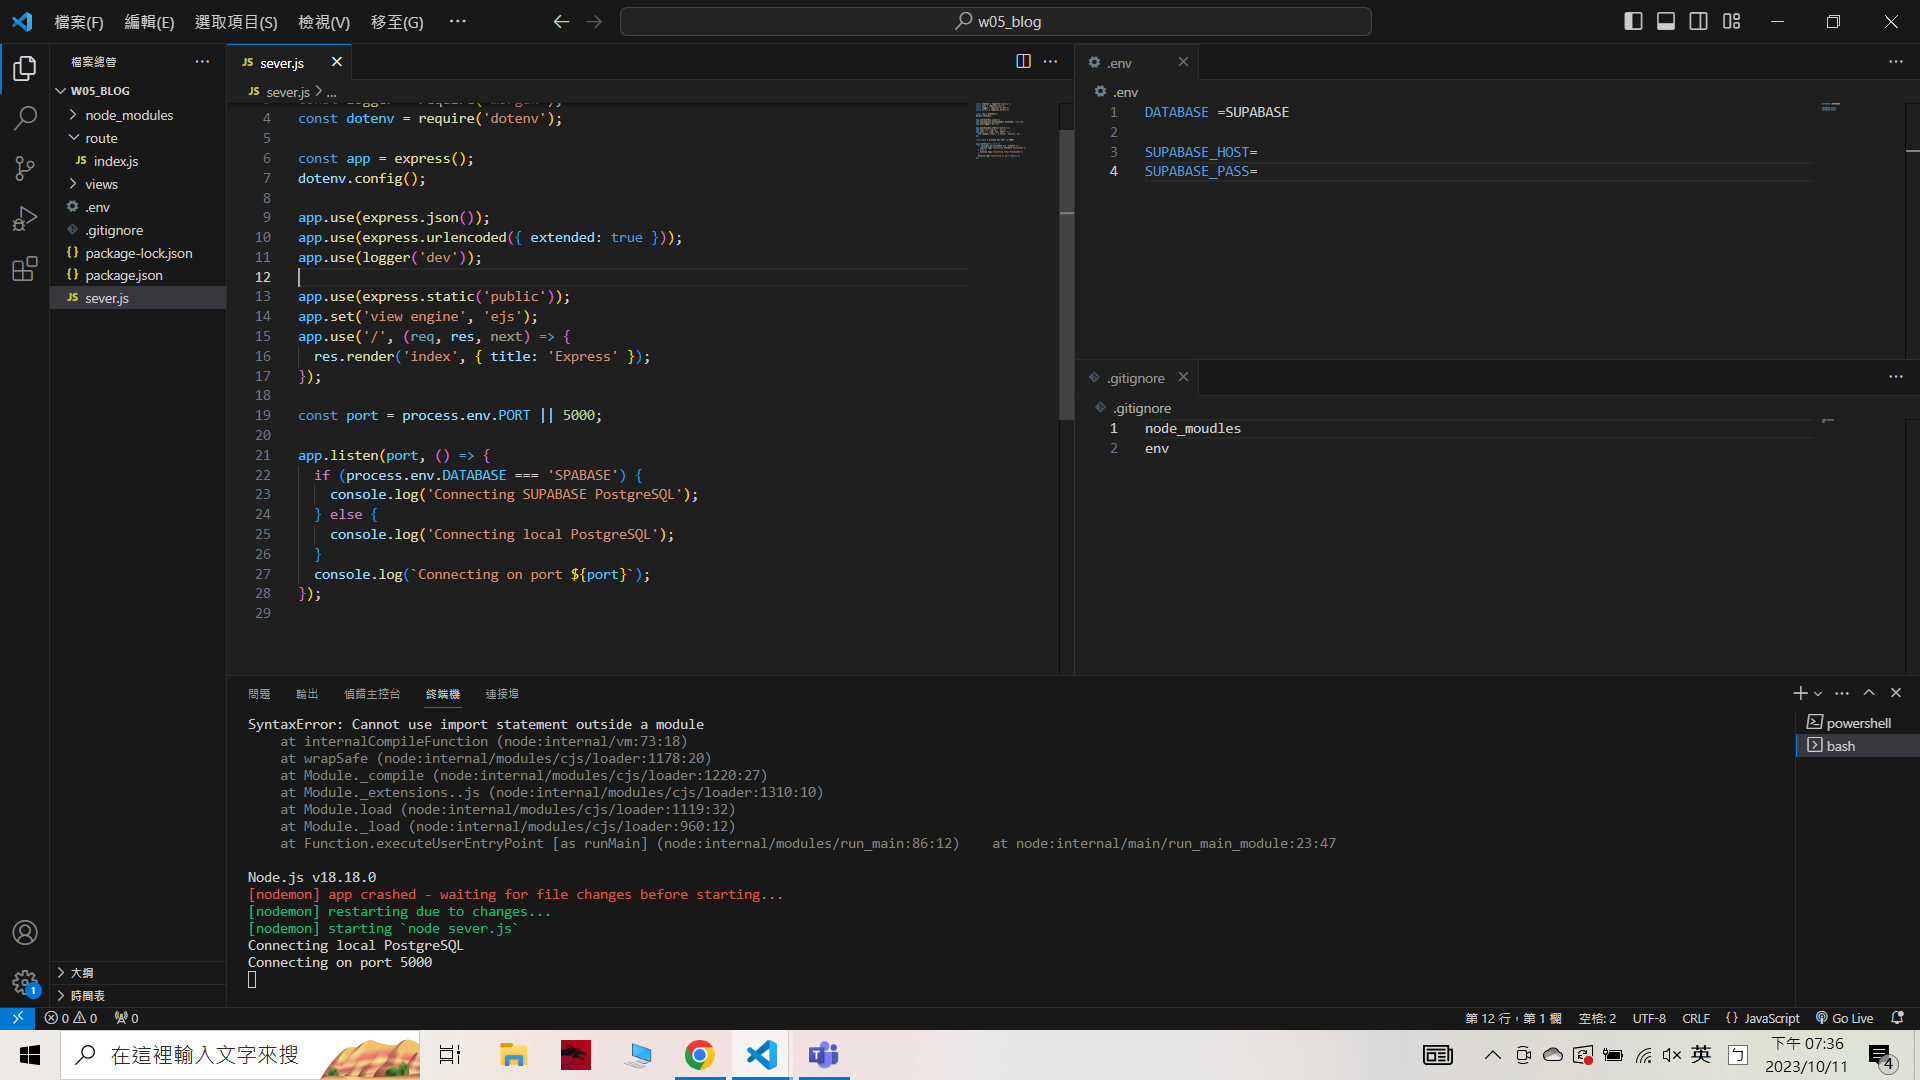
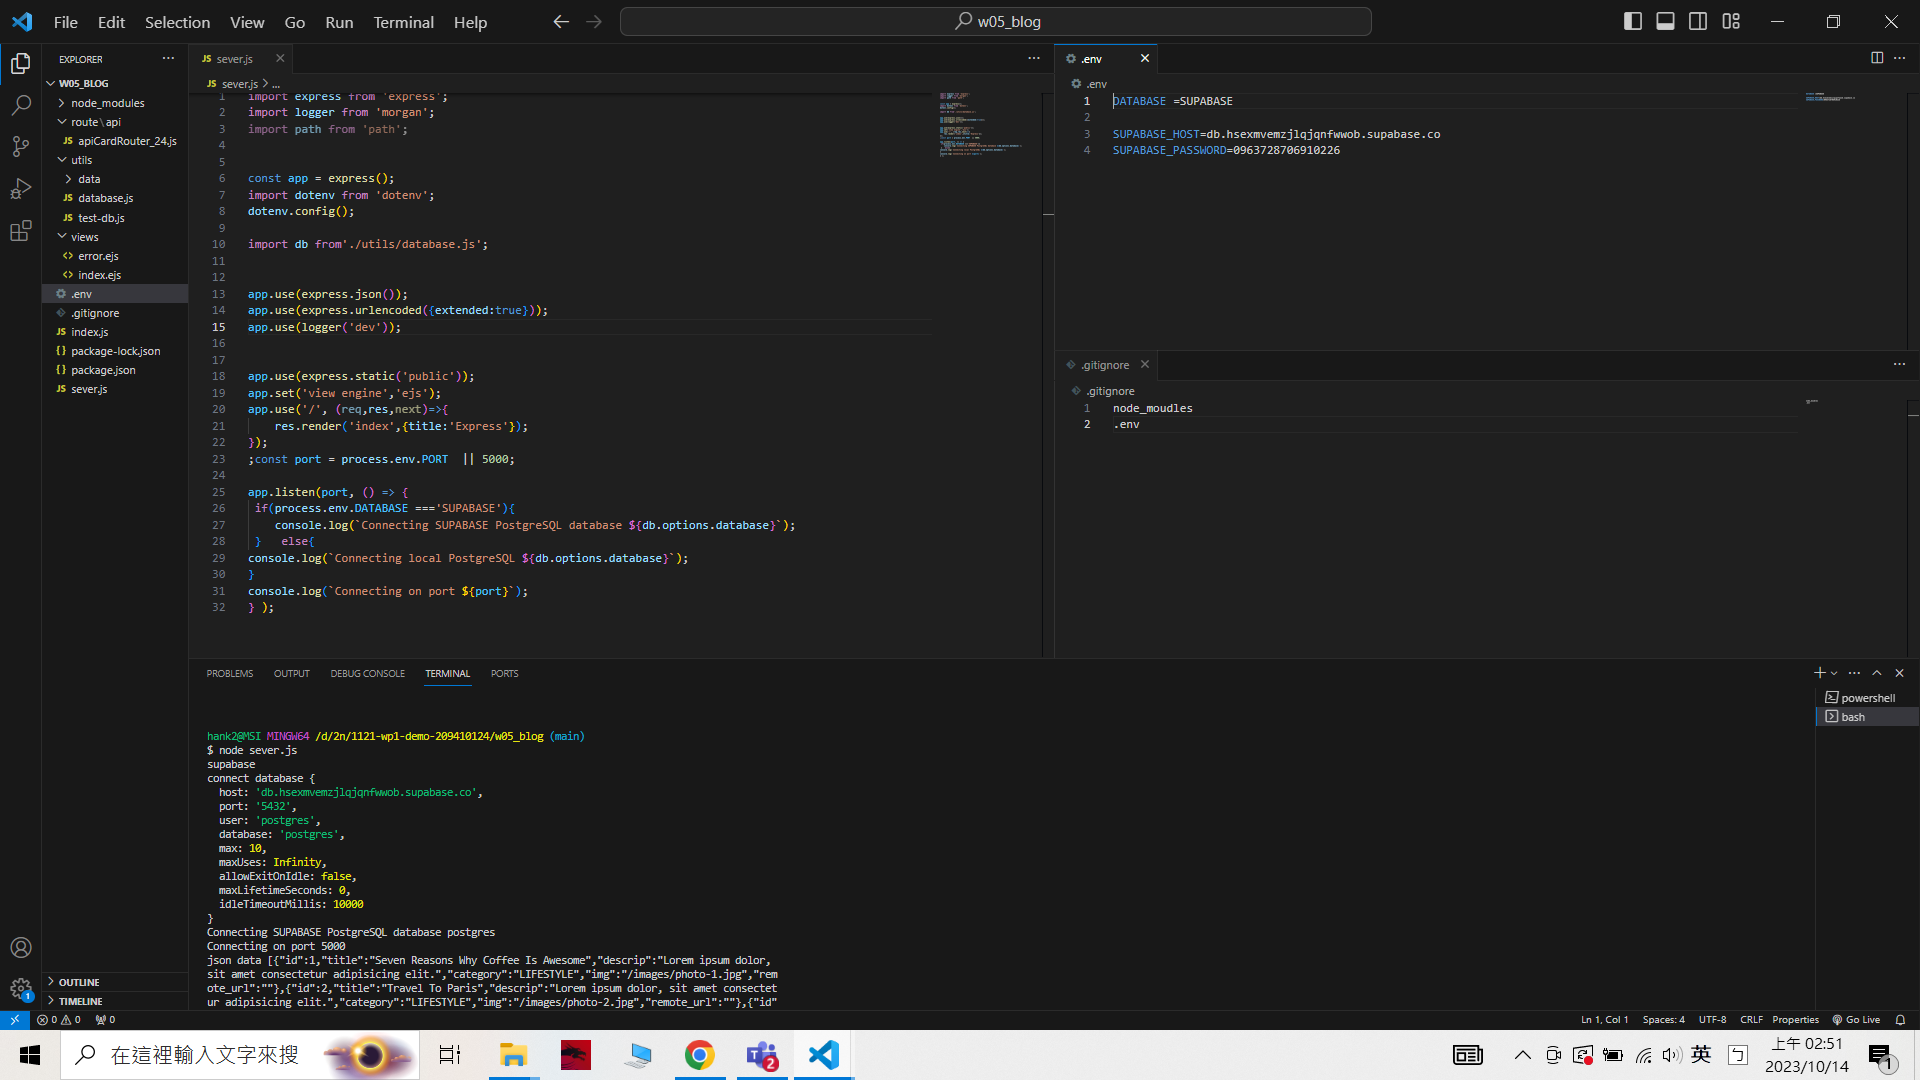
W05-P3: Using database.js to connect to Supabase and show card_24 data

diff --git a/demo/md/w05_24/w05_24.md b/demo/md/w05_24/w05_24.md
@@ -11,3 +11,13 @@ git log --pretty=format:"%h%x09%an%x09%ad%x09%s" --after="2023-010-10"
 ### W05-P2: Using pgAdmin 4 to get table card_24 from Supabase
  
 ![](w05_p2.png)
+
+
+```
+62ef340 unknown Wed Oct 11 20:50:38 2023 +0800  W05-P2: Using pgAdmin 4 to get table card_24 from Supabase
+```
+
+
+### W05-P3: Using database.js to connect to Supabase and show card_24 data
+ 
+![](w05_p3.png)
